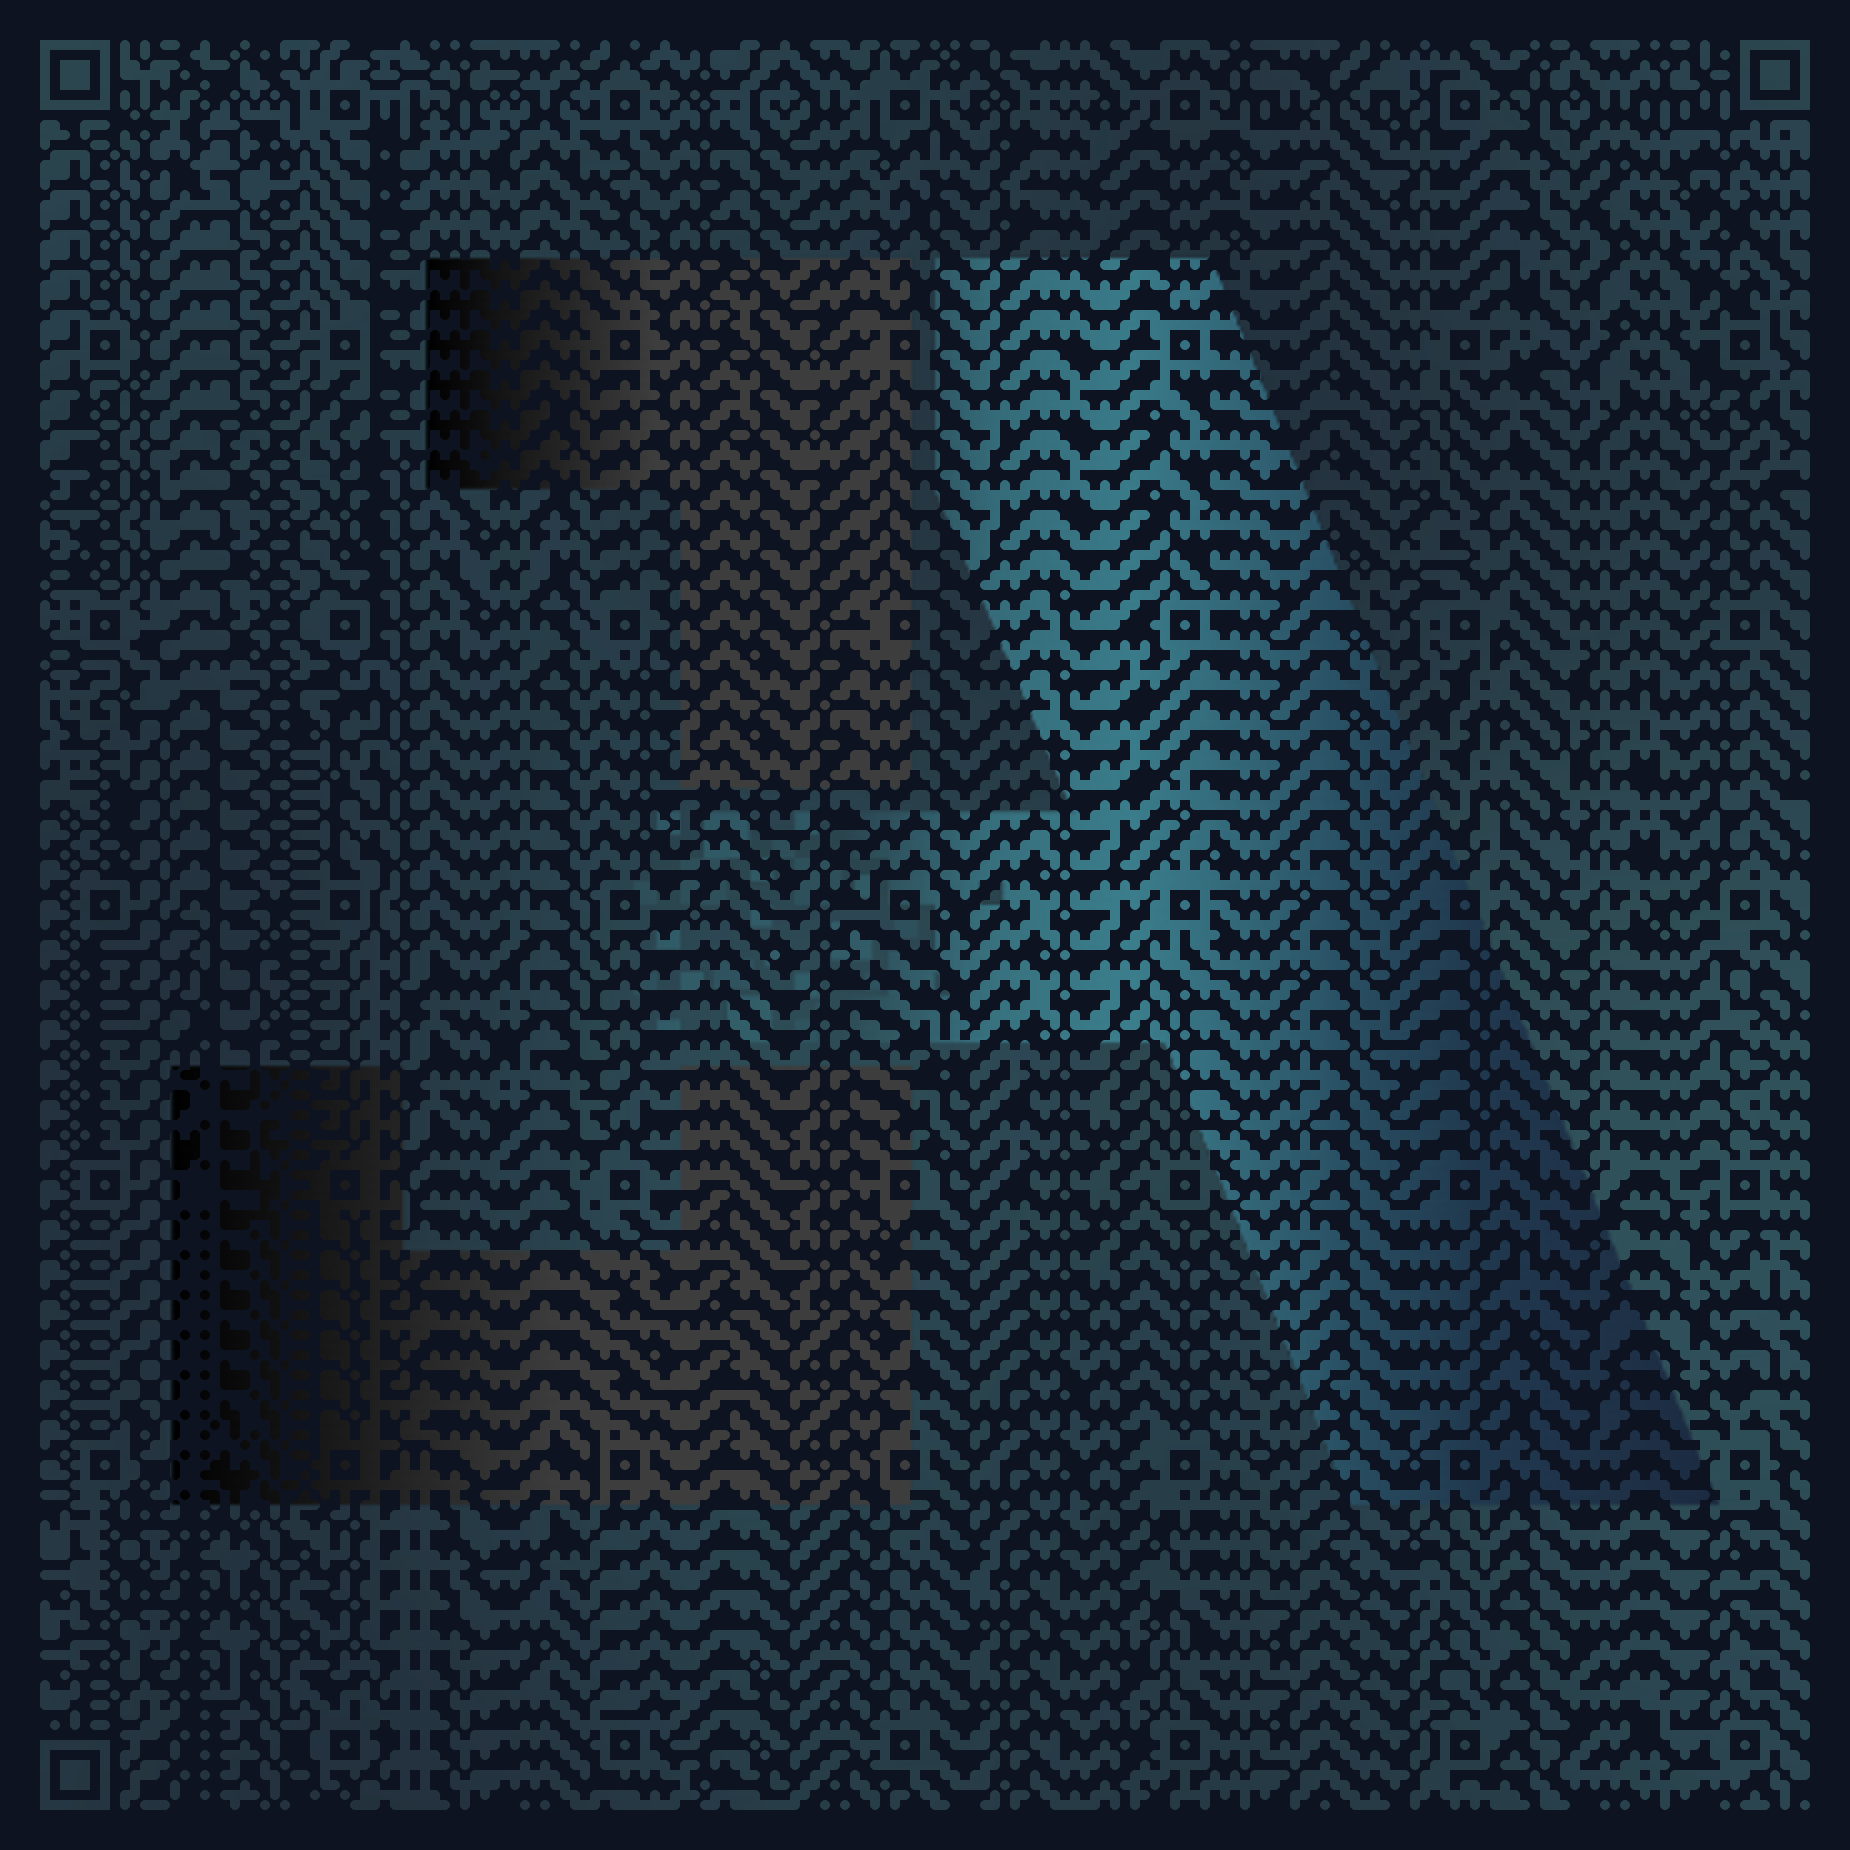
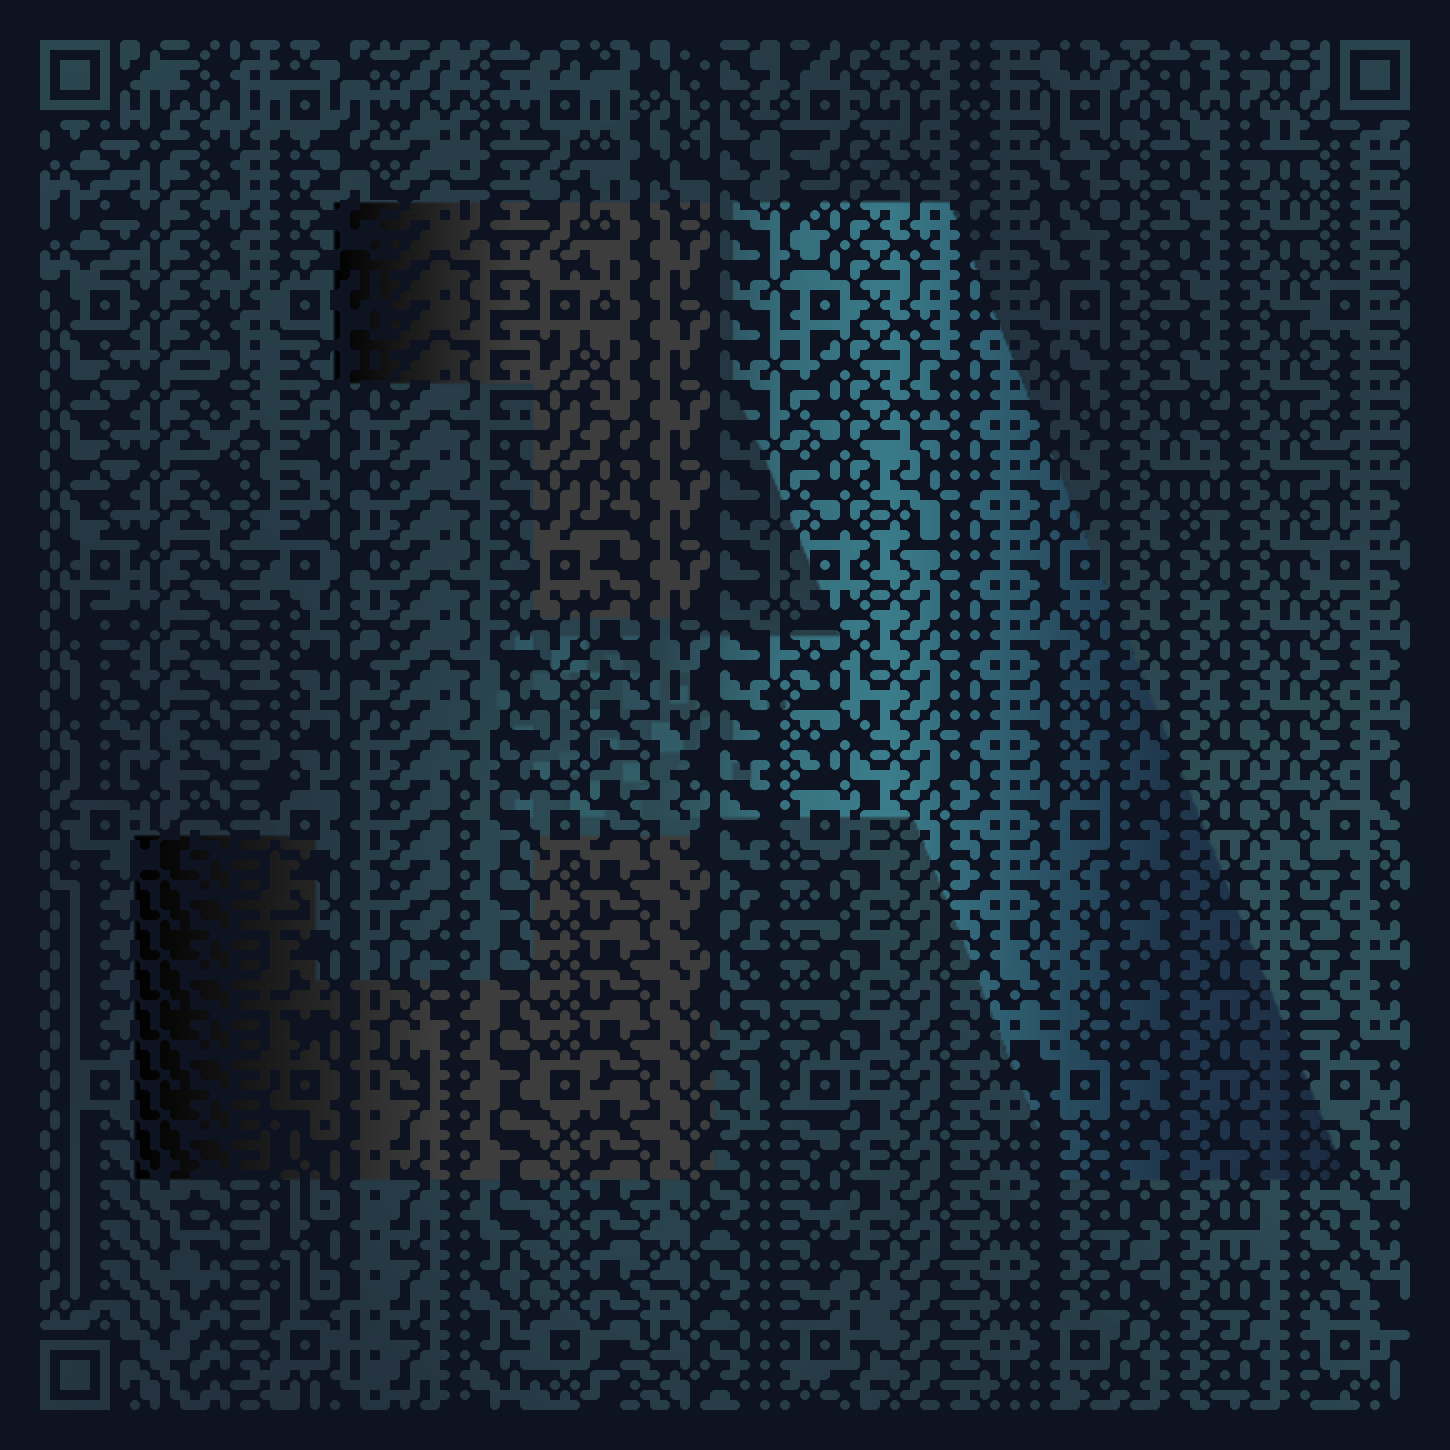
Removed padding

diff --git a/enhanced_qr.py b/enhanced_qr.py
@@ -19,7 +19,7 @@ class EnhancedQR:
     @staticmethod
     def generate(content=default_url, image_path=default_embedded_image_path, back_color=default_back_color):
         print('Generating: ', content)
-        qr = qrcode.QRCode(version=40, error_correction=qrcode.constants.ERROR_CORRECT_H, border=4)
+        qr = qrcode.QRCode(version=30, error_correction=qrcode.constants.ERROR_CORRECT_H, border=4)
         qr.add_data(content)
         qr.make()
         img = qr.make_image(image_factory=StyledPilImage, module_drawer=RoundedModuleDrawer(),
